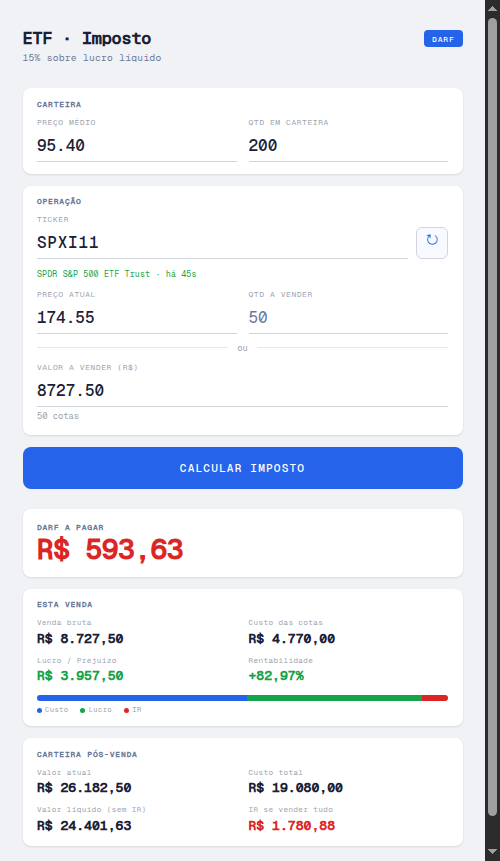
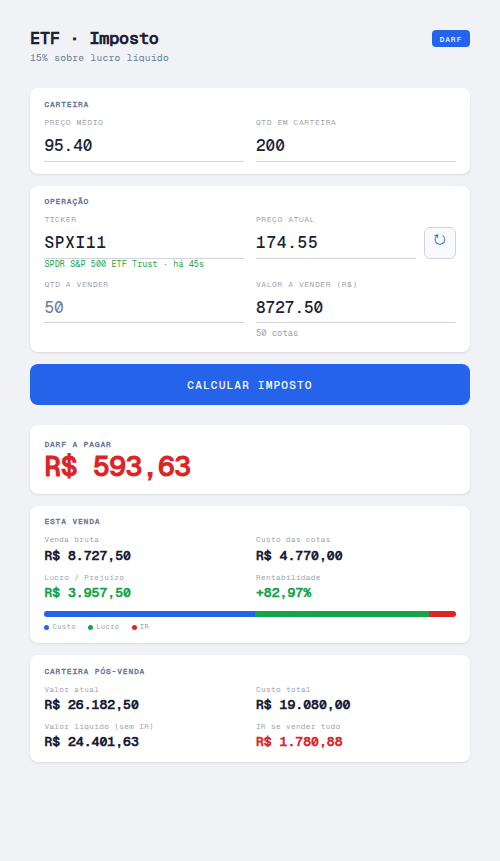
Reorganize Operação card layout and update screenshot
- Ticker and Preço atual side by side (first row)
- Fetch button (↻) next to Preço atual field
- Qtd a vender and Valor a vender side by side (second row)
- Remove "ou" separator

diff --git a/ir-etf/index.html b/ir-etf/index.html
@@ -356,7 +356,6 @@
     display: flex;
     align-items: flex-end;
     gap: 0.5rem;
-    margin-bottom: 0.65rem;
   }
   .ticker-field { flex: 1; }
   .ticker-field input {
@@ -442,28 +441,27 @@
   <div class="card">
     <div class="card-label">Operação</div>
     <div class="card-body">
-      <div class="ticker-row">
+      <div class="field-grid">
         <div class="field ticker-field">
           <label for="tickerInput">Ticker</label>
           <input type="text" id="tickerInput" placeholder="SPXI11" autocomplete="off" autocapitalize="characters" spellcheck="false">
         </div>
-        <button type="button" id="btnFetch" class="btn-fetch" aria-label="Buscar cotação">↻</button>
+        <div class="ticker-row">
+          <div class="field ticker-field">
+            <label for="currentPrice">Preço atual</label>
+            <input type="number" id="currentPrice" step="0.01" min="0.01" placeholder="0,00" required>
+            <span class="err" id="currentPriceErr">Valor inválido</span>
+          </div>
+          <button type="button" id="btnFetch" class="btn-fetch" aria-label="Buscar cotação">↻</button>
+        </div>
       </div>
       <div class="ticker-status" id="tickerStatus"></div>
       <div class="field-grid">
-        <div class="field">
-          <label for="currentPrice">Preço atual</label>
-          <input type="number" id="currentPrice" step="0.01" min="0.01" placeholder="0,00" required>
-          <span class="err" id="currentPriceErr">Valor inválido</span>
-        </div>
         <div class="field">
           <label for="sellQty">Qtd a vender</label>
           <input type="number" id="sellQty" step="1" min="1" placeholder="0" required>
           <span class="err" id="sellQtyErr">Qtd inválida</span>
         </div>
-      </div>
-      <div class="sell-or">ou</div>
-      <div class="field-grid single">
         <div class="field">
           <label for="sellValue">Valor a vender (R$)</label>
           <input type="number" id="sellValue" step="0.01" min="0.01" placeholder="0,00">
